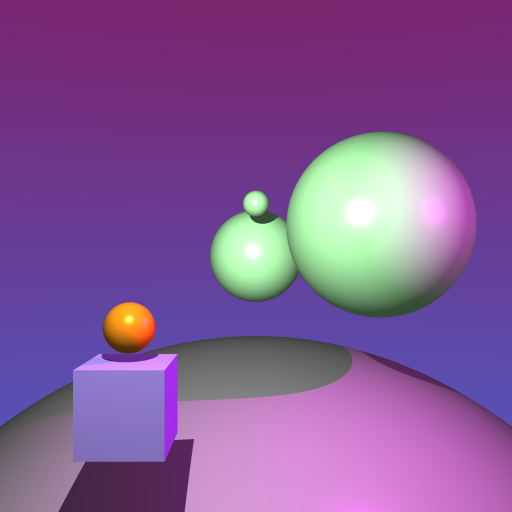
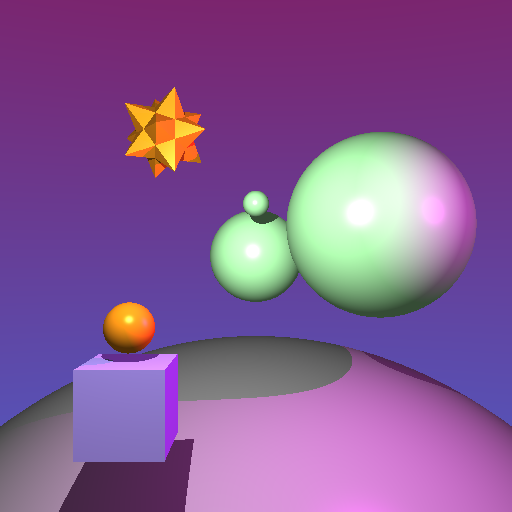
fix Assets

Changed region(s): [[0.25, 0.1562, 0.4062, 0.3438], [0.3125, 0.875, 0.3438, 0.9062]]

diff --git a/A4/Mesh.cpp b/A4/Mesh.cpp
@@ -5,8 +5,9 @@
 
 #include <glm/ext.hpp>
 
-// #include "cs488-framework/ObjFileDecoder.hpp"
+#include "cs488-framework/ObjFileDecoder.hpp"
 #include "Mesh.hpp"
+using namespace std;
 
 Mesh::Mesh( const std::string& fname )
 	: m_vertices()
@@ -48,25 +49,26 @@ std::ostream& operator<<(std::ostream& out, const Mesh& mesh)
   out << "}";
   return out;
 }
-
 bool Mesh::intersect(Ray& ray, glm::vec2 interval, HitRecord& hitRecord) {
-	bool hit = false;
-    float closestT = interval.y;
-
-    for (const auto& tri : m_faces) {
+    bool hit = false;
+	float interval0 = interval[0];
+	float interval1 = interval[1];
+	glm::vec3 closest_normal;
+	// cout << "mesh " << m_faces.size() << endl;
+	// cout << "vertices " << m_vertices.size() << endl;
+    for (auto tri : m_faces) {
         // Retrieve vertices of the triangle
         const glm::vec3& v0 = m_vertices[tri.v1];
         const glm::vec3& v1 = m_vertices[tri.v2];
         const glm::vec3& v2 = m_vertices[tri.v3];
 
-        // Möller-Trumbore triangle intersection
-        const float EPSILON = 1e-8;
+        // Möller-Trumbore triangle
         glm::vec3 edge1 = v1 - v0;
         glm::vec3 edge2 = v2 - v0;
 
         glm::vec3 h = glm::cross(ray.direction, edge2);
         float a = glm::dot(edge1, h);
-        if (a > -EPSILON && a < EPSILON) continue; // Ray is parallel to the triangle
+        if (a > -1e-8f && a < 1e-8f) continue; // Ray is parallel to the triangle
 
         float f = 1.0f / a;
         glm::vec3 s = ray.origin - v0;
@@ -78,21 +80,24 @@ bool Mesh::intersect(Ray& ray, glm::vec2 interval, HitRecord& hitRecord) {
         if (v < 0.0f || u + v > 1.0f) continue;
 
         float t = f * glm::dot(edge2, q);
-        if (t > EPSILON && t < closestT) { // Valid intersection
-            closestT = t;
+        if (t > interval0 && t < interval1) { // Valid intersection
             hit = true;
-
-            // Update HitRecord
-            hitRecord.t = t;
-            hitRecord.hitPoint = ray.at(t);
-            hitRecord.normal = glm::cross(edge1, edge2); // Triangle normal
-			hitRecord.material = nullptr;
-            // Ensure the normal points against the ray direction
-            if (glm::dot(hitRecord.normal, ray.direction) > 0) {
-                hitRecord.normal = -hitRecord.normal;
-            }
+            interval1 = t;
+            closest_normal = glm::normalize(glm::cross(edge1, edge2));
         }
     }
 
-    return hit;
+	if (!hit) return false;
+
+    // Ensure the normal points against the ray direction
+    if (glm::dot(ray.direction, closest_normal) > 0.0f) {
+        closest_normal = -closest_normal;
+    }
+
+    // Update the hit record
+	hitRecord.hit = true;
+    hitRecord.t = interval1;
+    hitRecord.normal = closest_normal;
+    hitRecord.hitPoint = ray.at(interval1);
+    return true;
 }

diff --git a/A4/Primitive.cpp b/A4/Primitive.cpp
@@ -113,8 +113,6 @@ bool NonhierBox::intersect(Ray& ray, glm::vec2 interval, HitRecord& hitRecord)
     else if (hitRecord.t == t0.z || hitRecord.t == t1.z) hitRecord.normal = glm::vec3(0, 0, (hitRecord.t == t0.z ? -1 : 1));
 
     return true;
-
-    // return m_mesh->intersect(ray, interval, hitRecord);
 }
 
 NonhierBox::~NonhierBox()

diff --git a/A4/scene_lua.cpp b/A4/scene_lua.cpp
@@ -345,7 +345,7 @@ int gr_render_cmd(lua_State* L)
     lights.push_back(ldata->light);
     lua_pop(L, 1);
   }
-
+  // env variable to enable super sampling
   const char* env = std::getenv("ENABLE_SUPER_SAMPLING");
   bool enableSuperSampling = env && std::string(env) == "1";
 

diff --git a/A4/Mesh.hpp b/A4/Mesh.hpp
@@ -13,7 +13,7 @@
 // Use this #define to selectively compile your code to render the
 // bounding boxes around your mesh objects. Uncomment this option
 // to turn it on.
-#define RENDER_BOUNDING_VOLUMES
+// #define RENDER_BOUNDING_VOLUMES
 
 struct Triangle
 {

diff --git a/A4/Primitive.hpp b/A4/Primitive.hpp
@@ -54,5 +54,4 @@ public:
 private:
   glm::vec3 m_pos;
   double m_size;
-  // Primitive *m_mesh;
 };
